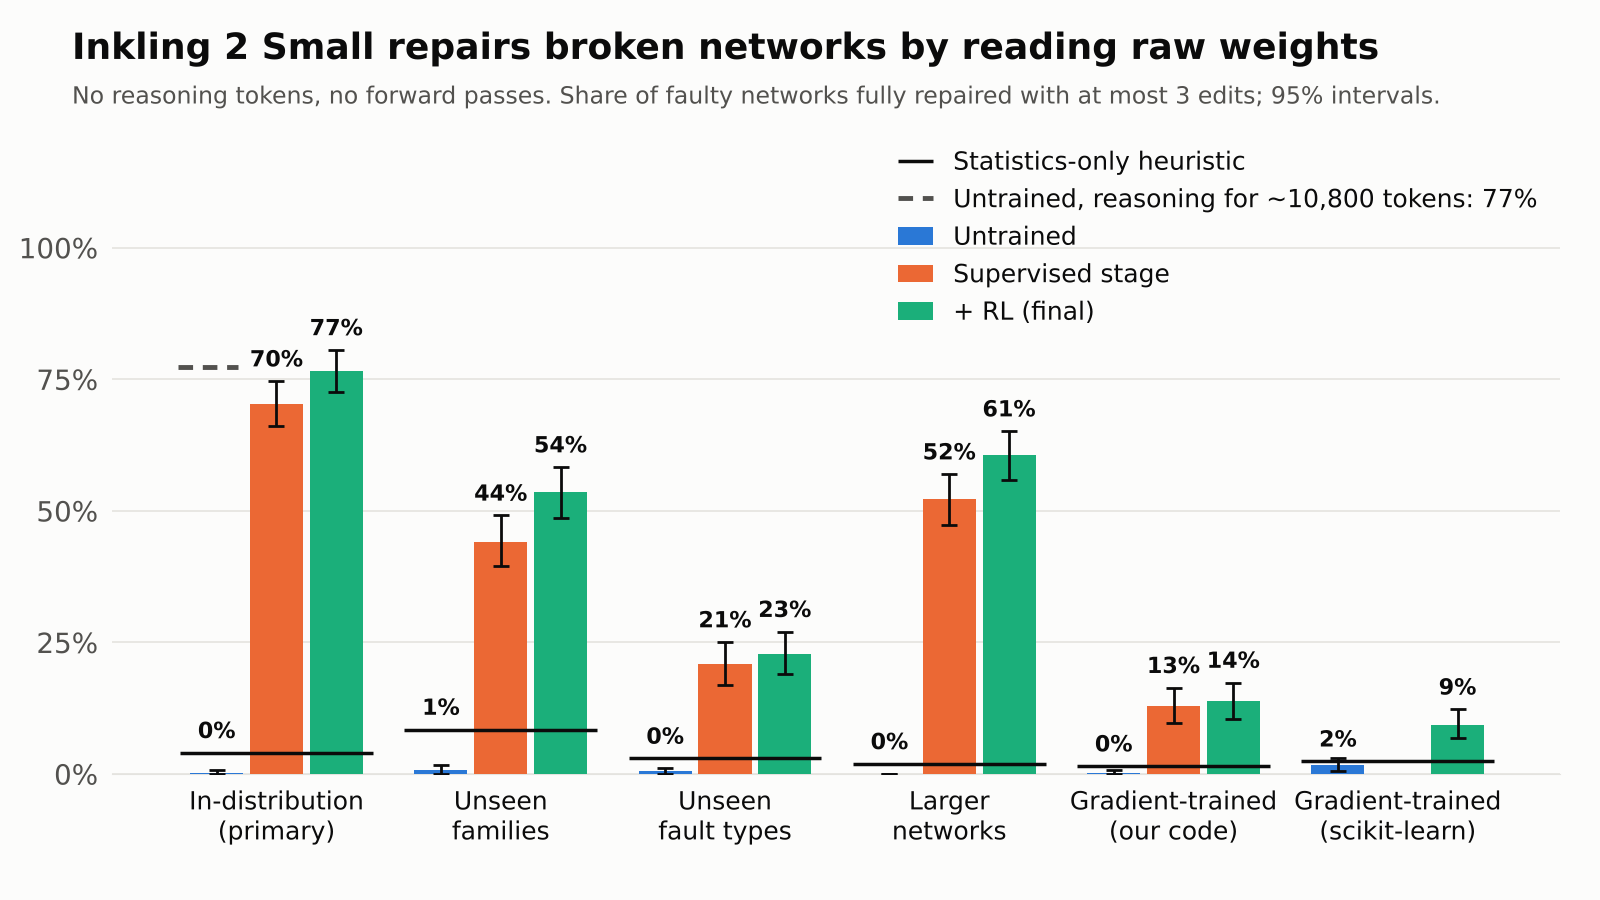
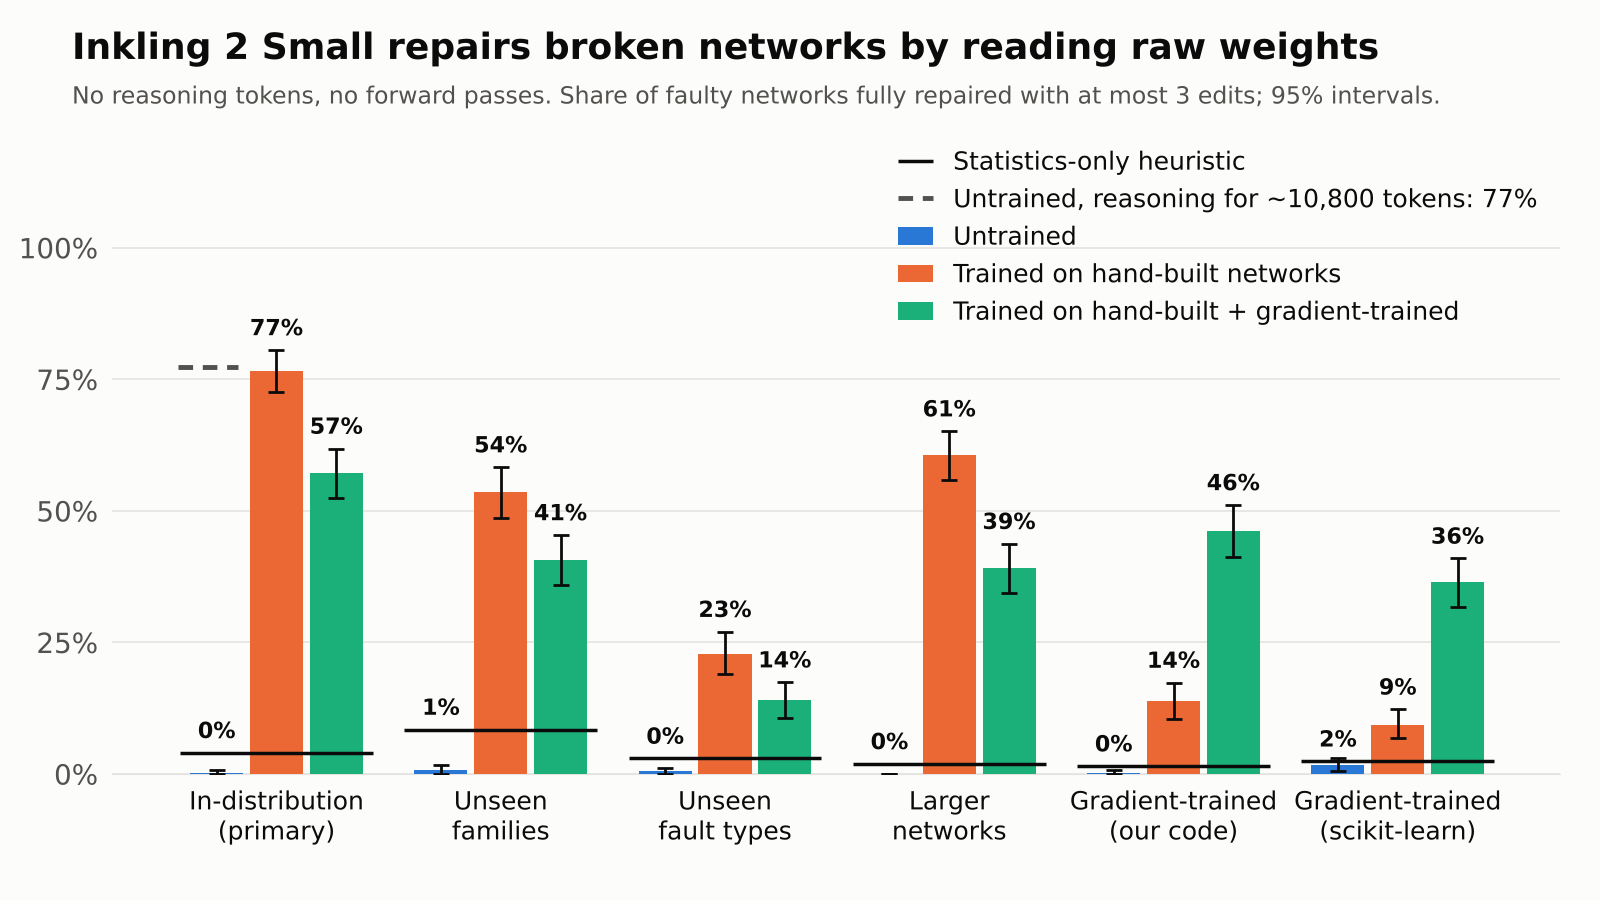
Final chart with both trained repair models; README reproduce commands

diff --git a/README.md b/README.md
@@ -13,6 +13,9 @@ networks.
 
 ![Repair rate by test split](results/repair_rate.png)
 
+*Chart: the untrained model and the two trained models described below. The supervised and RL stages of
+the first model are shown separately in `results/repair_rate_stages.png`.*
+
 ## Result
 
 Repair rate with **no reasoning tokens** (the model must answer at once; ~40 output tokens), on frozen
@@ -262,7 +265,12 @@ uv run python -m weightgym.tinker_train sft --log-path runs/sft --lr 3e-4 --deca
 uv run python -m weightgym.rl_chunks --log-path runs/rl --load tinker://<sft state> --init-sampler tinker://<sft sampler> \
     --init-val 0.754 --lr 2e-5 --chunks 6 --chunk-steps 10 --group-size 8 --groups-per-batch 64
 uv run python -m weightgym.final_eval --arm untrained --arm sft_rl=tinker://<sampler> --baselines --thinking-ref 100
-uv run python -m weightgym.plot --arms untrained,sft,sft_rl --labels "Untrained,Supervised stage,+ RL (final)"
+uv run python -m weightgym.tinker_train sft --log-path runs/sft_mixed --lr 3e-4 --decay 0.8 --steps 300 --batch-size 64 \
+    --mix repair,repair_trained --val-sets "repair:data/val.jsonl,repair:data/val_trained.jsonl"
+uv run python -m weightgym.rl_chunks --log-path runs/rl_improve --init-val 0.0 --lr 6e-5 --rank 16 --chunks 8 --group-size 16 \
+    --groups-per-batch 32 --mix improve_loop --val-task improve_loop --val-split data/val_imperfect.jsonl --val-samples 8 --select loop_gap
+uv run python -m weightgym.plot --arms untrained,sft_rl,sft_mixed \
+    --labels "Untrained,Trained on hand-built networks,Trained on hand-built + gradient-trained"
 uv run python -m weightgym.cost
 ```
 
